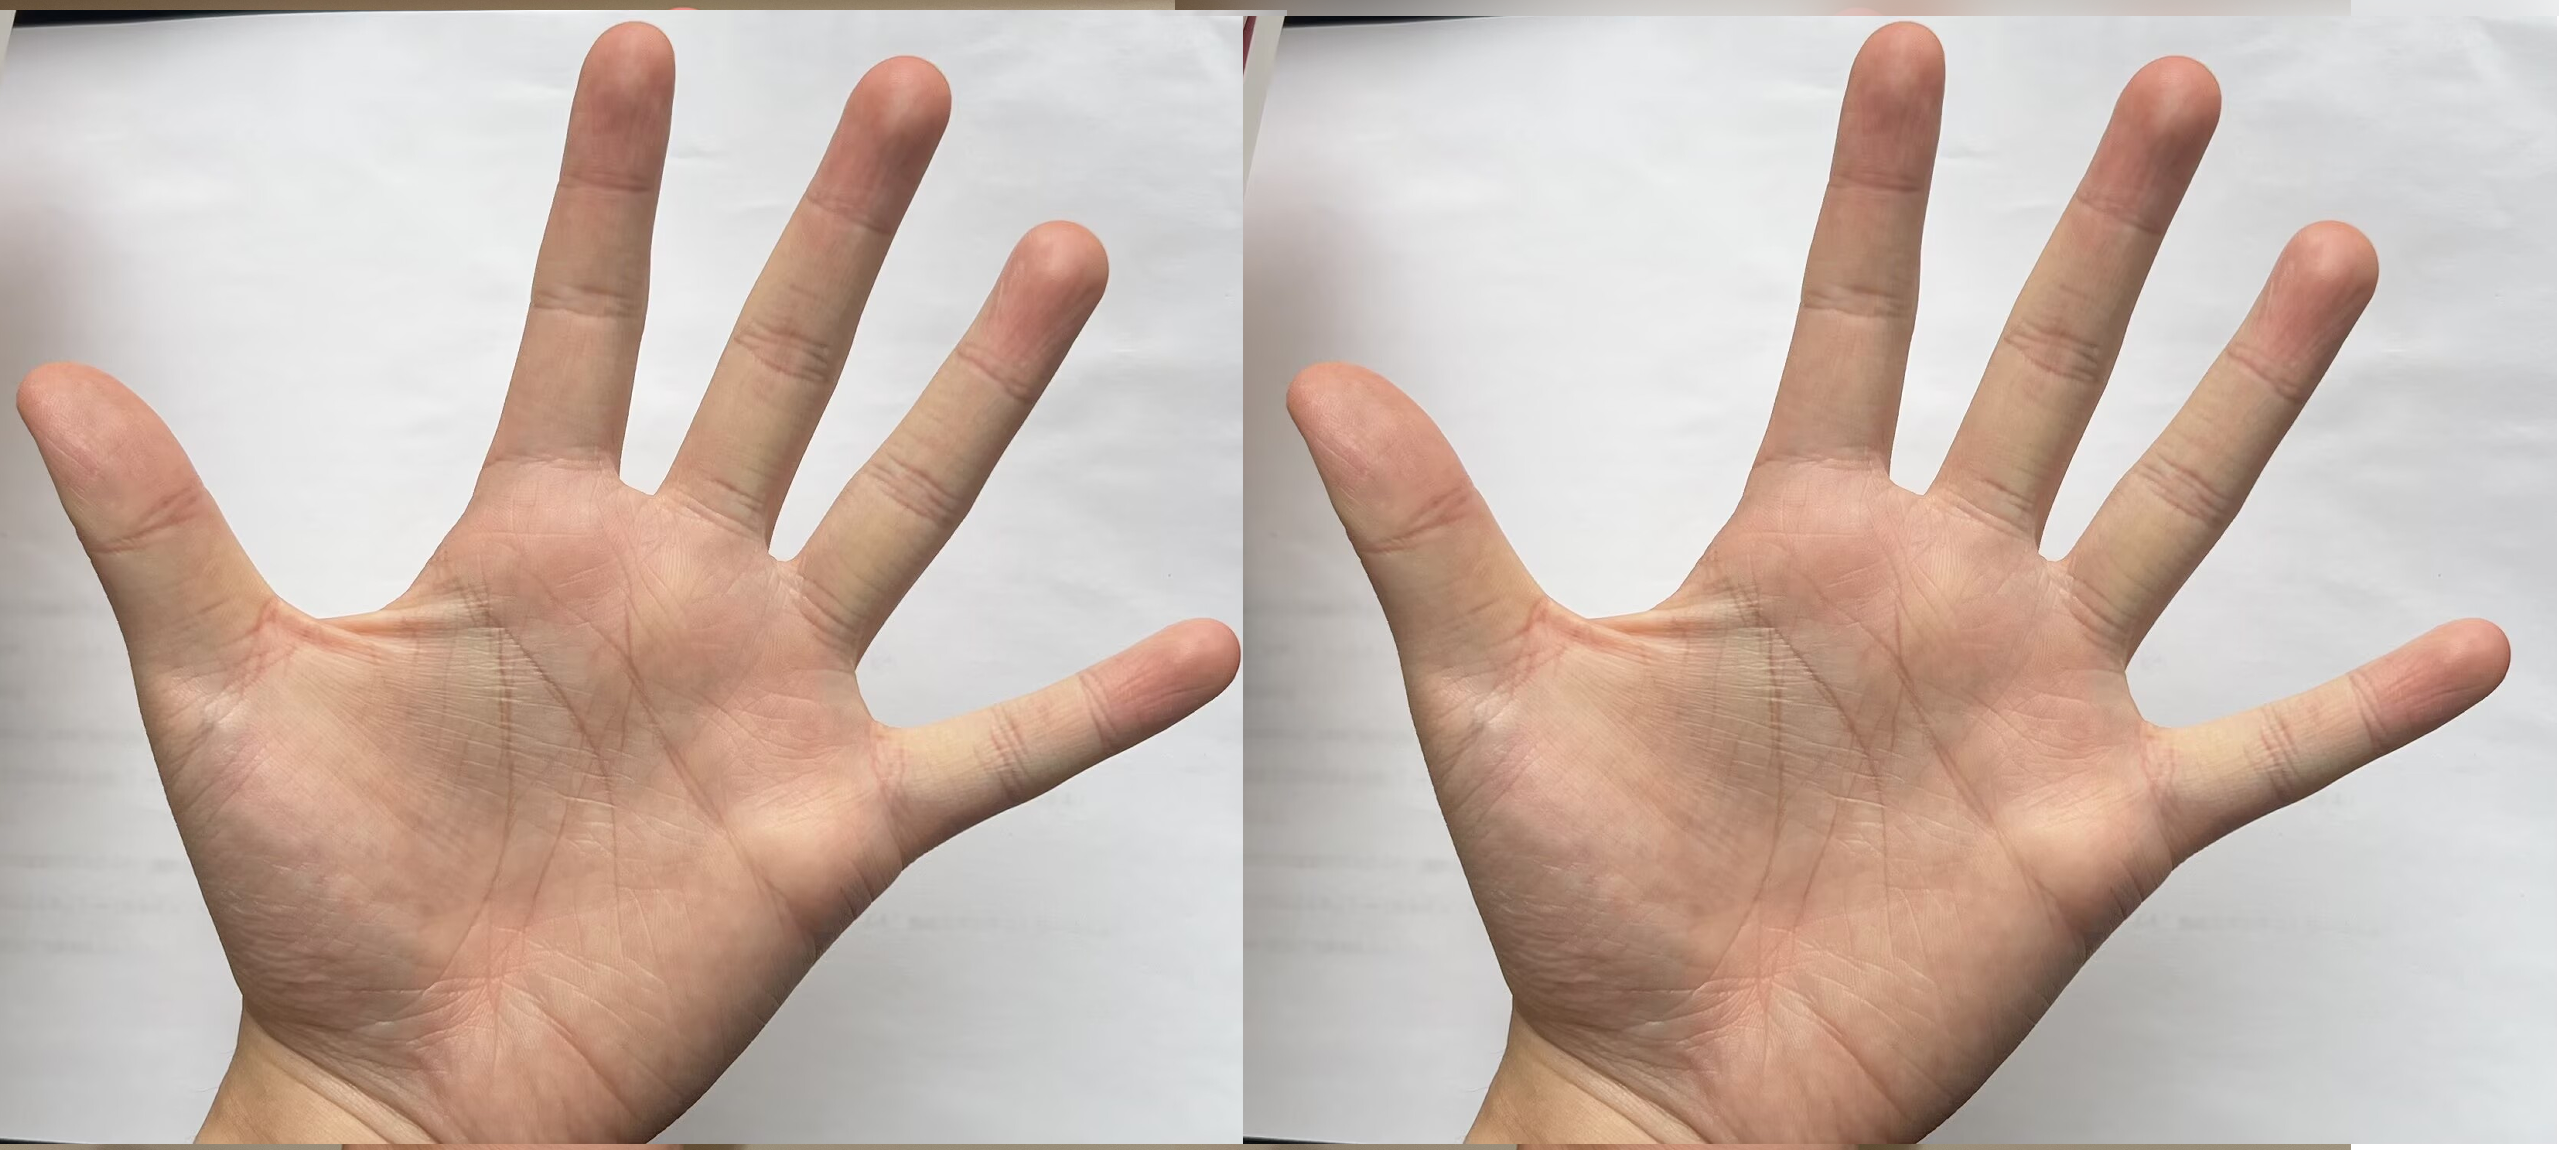
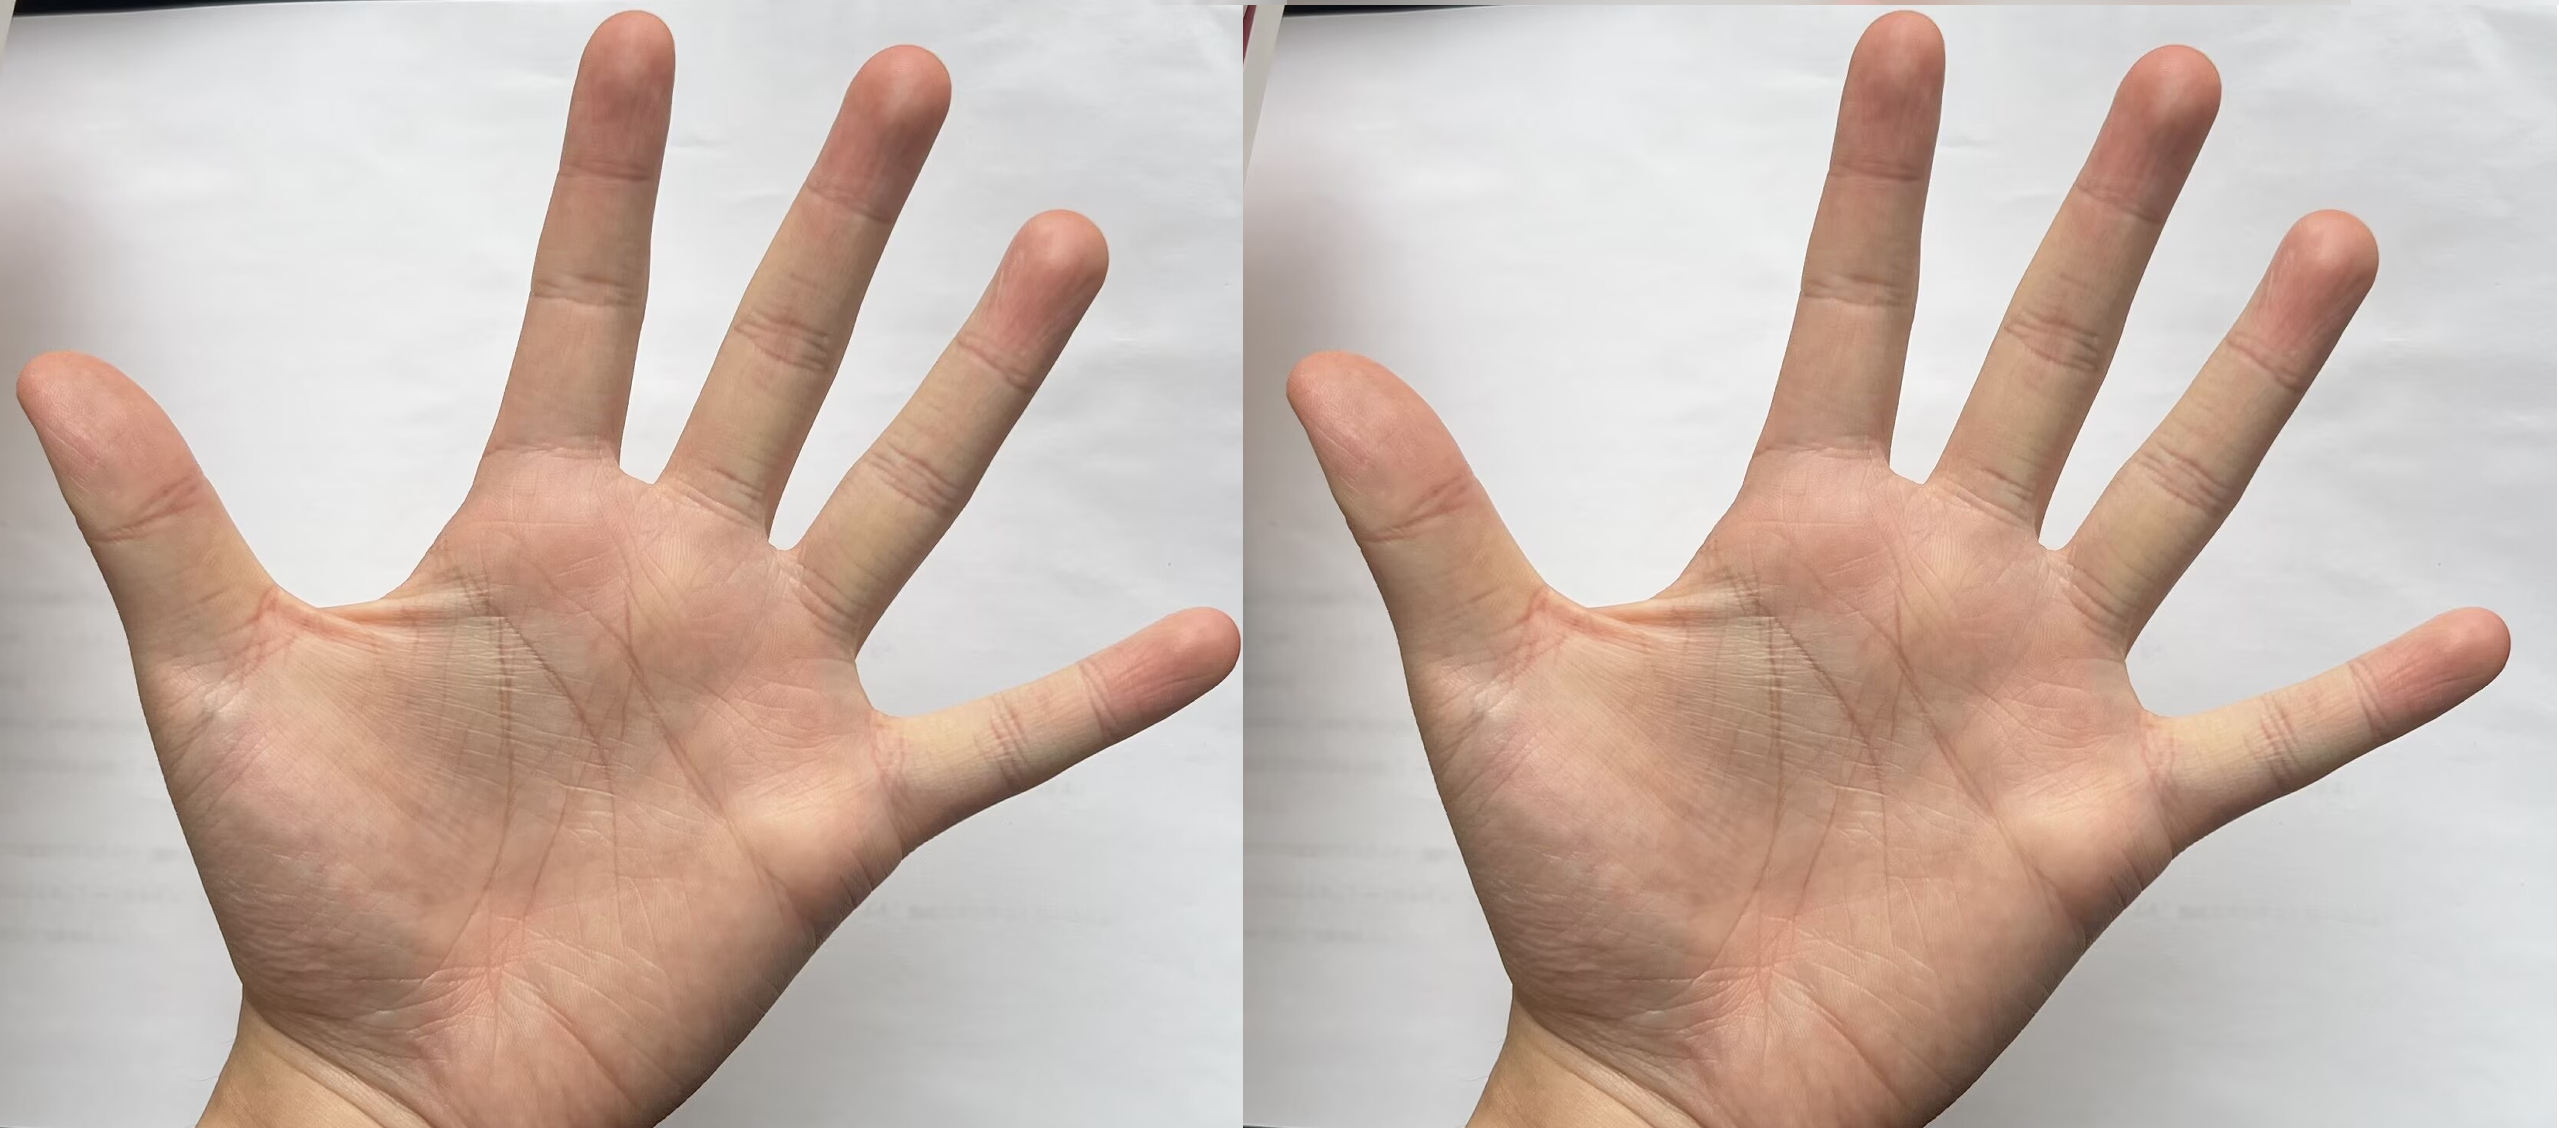
Step 2: split hands by connected components

diff --git a/debug.py b/debug.py
@@ -15,11 +15,23 @@ import pipeline
 # Height (px) that every panel is resized to before being placed side by side.
 PANEL_HEIGHT = 480
 
+# Max on-screen size of the combined window. The whole grid is shrunk to fit
+# inside this box (never enlarged), so wide multi-panel views stay visible.
+MAX_WINDOW_W = 1600
+MAX_WINDOW_H = 850
+
+# How many panels per row. Wide images squished into one long row become
+# unreadable, so we wrap them into a grid instead.
+PANELS_PER_ROW = 2
+
 # Style for the title text drawn on top of each panel.
 TITLE_FONT = cv2.FONT_HERSHEY_SIMPLEX
 TITLE_SCALE = 0.7
 TITLE_COLOR = (0, 255, 0)   # BGR green
 TITLE_THICK = 2
+
+# Distinct pure BGR colors used to paint each detected hand in the overlay.
+HAND_COLORS = [(0, 0, 255), (0, 255, 0), (255, 0, 0), (0, 255, 255)]  # R,G,B,Y
 
 
 def _to_bgr(img):
@@ -64,21 +76,61 @@ def show(*pairs):
                     TITLE_COLOR, TITLE_THICK, cv2.LINE_AA)
         panels.append(panel)
 
-    # Stack all panels horizontally into a single strip and show it.
-    strip = cv2.hconcat(panels)
-    cv2.imshow("debug", strip)
+    # Lay panels out in a grid (PANELS_PER_ROW per row) instead of one long
+    # row, so wide images don't get squished to a thin unreadable strip.
+    rows = []
+    for r in range(0, len(panels), PANELS_PER_ROW):
+        rows.append(cv2.hconcat(panels[r:r + PANELS_PER_ROW]))
+    # Pad shorter rows on the right (black) so every row has the same width.
+    grid_w = max(row.shape[1] for row in rows)
+    rows = [cv2.copyMakeBorder(row, 0, 0, 0, grid_w - row.shape[1],
+                               cv2.BORDER_CONSTANT, value=(0, 0, 0))
+            for row in rows]
+    grid = cv2.vconcat(rows)
+
+    # Shrink the whole grid so it fits inside the on-screen window box (only
+    # ever scale down), otherwise big debug photos run off the screen.
+    gh, gw = grid.shape[:2]
+    fit = min(1.0, MAX_WINDOW_W / gw, MAX_WINDOW_H / gh)
+    if fit < 1.0:
+        grid = cv2.resize(grid, (int(gw * fit), int(gh * fit)))
+
+    # WINDOW_NORMAL + resizeWindow makes the window match the fitted image.
+    cv2.namedWindow("debug", cv2.WINDOW_NORMAL)
+    cv2.imshow("debug", grid)
+    cv2.resizeWindow("debug", grid.shape[1], grid.shape[0])
     cv2.waitKey(0)
     cv2.destroyAllWindows()
 
 
 if __name__ == "__main__":
-    # Step 1: verify skin_mask on a static sample.
-    # (Sample on disk is paper.png, not paper.jpg.)
-    img = cv2.imread("data/paper.jpg")
+    # Step 2: verify split_hands on a two-hand sample.
+    # (Sample on disk is two_hands.png, not .jpg.)
+    img = cv2.imread("data/two_hands.png")
     if img is None:
-        raise FileNotFoundError("could not read data/paper.png")
+        raise FileNotFoundError("could not read data/two_hands.png")
 
-    # return_stages=True gives us both the raw thresholded mask and the
-    # morphology-cleaned mask so we can compare them side by side.
-    raw, clean = pipeline.skin_mask(img, return_stages=True)
-    show(("original", img), ("raw mask", raw), ("clean mask", clean))
+    clean = pipeline.skin_mask(img)          # Step 1 mask
+    hands = pipeline.split_hands(clean)      # Step 2: one binary mask per hand
+    print(f"split_hands found {len(hands)} hand(s)")
+
+    # Paint each hand a solid, OPAQUE color (direct overwrite, not blended) on
+    # a copy of the original, then draw its bounding box + index number.
+    overlay = img.copy()
+    for idx, hand in enumerate(hands):
+        color = HAND_COLORS[idx % len(HAND_COLORS)]
+        overlay[hand > 0] = color                       # solid fill
+        x, y, w, h = cv2.boundingRect(hand)             # bbox from the mask
+        cv2.rectangle(overlay, (x, y), (x + w, y + h), color, 6)
+        # Draw the index in BLACK, centered inside the bounding box.
+        label = f"#{idx}"
+        (tw, th), _ = cv2.getTextSize(label, cv2.FONT_HERSHEY_SIMPLEX, 3.0, 8)
+        org = (x + w // 2 - tw // 2, y + h // 2 + th // 2)
+        cv2.putText(overlay, label, org,
+                    cv2.FONT_HERSHEY_SIMPLEX, 3.0, (0, 0, 0), 8, cv2.LINE_AA)
+
+    # First hand's raw black/white mask (empty if none found), shown next to
+    # the Step 1 clean mask so we can compare fingertips.
+    hand0 = hands[0] if hands else np.zeros_like(clean)
+    show(("original", img), ("hands overlay", overlay),
+         ("hand 0 mask", hand0), ("clean mask", clean))

diff --git a/pipeline.py b/pipeline.py
@@ -42,9 +42,14 @@ MORPH_CLOSE_KSIZE = 7   # kernel size for morphological closing (odd number)
 MORPH_OPEN_KSIZE = 5    # kernel size for morphological opening (odd number)
 
 # --- Hand region area filter (in pixels) ----------------------------------
-# Connected components smaller/larger than this are not treated as a hand.
-HAND_AREA_MIN = 3000     # ignore blobs smaller than this (noise)
-HAND_AREA_MAX = 200000   # ignore blobs larger than this (background bleed)
+# split_hands() keeps only connected components whose pixel area is in
+# [HAND_AREA_MIN, HAND_AREA_MAX]; smaller = noise, larger = background bleed.
+# TUNE PER REAL CAPTURE -- these are ABSOLUTE pixel counts, so they scale with
+# resolution. Values below are sized for the high-res debug photos in data/
+# (~2.5-2.9 M px total, where one hand is ~0.6-1.0 M px). A 640x480 webcam
+# frame is ~10x smaller, so lower BOTH by roughly that factor for live use.
+HAND_AREA_MIN = 50000     # ignore blobs smaller than this (noise / desk strips)
+HAND_AREA_MAX = 1300000   # ignore blobs larger than this (background bleed)
 
 # --- Finger counting: concentric ring sampling ----------------------------
 # We sample circles at these multiples of the palm inscribed-circle radius.
@@ -119,7 +124,29 @@ def split_hands(mask):
         list[hand_mask]: list of binary masks (H, W) uint8, one per hand
         (0, 1, or 2 entries in practice).
     """
-    raise NotImplementedError
+    # 1. Label 8-connected blobs. connectedComponentsWithStats returns four
+    #    things: the label count, the per-pixel label image, a per-label stats
+    #    table (bbox + area), and per-label centroids. We only need the count,
+    #    the label image, and the area column here.
+    num_labels, labels, stats, _ = cv2.connectedComponentsWithStats(
+        mask, connectivity=8)
+
+    hands = []
+    # 2. Label 0 is ALWAYS the background, so start from 1.
+    for i in range(1, num_labels):
+        area = stats[i, cv2.CC_STAT_AREA]
+        # 3. Keep only blobs whose area looks like a hand; drop noise (too
+        #    small) and background bleed (too large).
+        if area < HAND_AREA_MIN or area > HAND_AREA_MAX:
+            continue
+        # 4. Build a fresh binary mask holding ONLY this component: pixels whose
+        #    label == i become 255, everything else 0. No morphology here --
+        #    cleanup already happened in skin_mask(); this stage only splits.
+        hand_mask = np.uint8(labels == i) * 255
+        hands.append(hand_mask)
+
+    # 5. len(hands) is the number of hands found -- not assumed to be fixed.
+    return hands
 
 
 def palm_center(hand_mask):